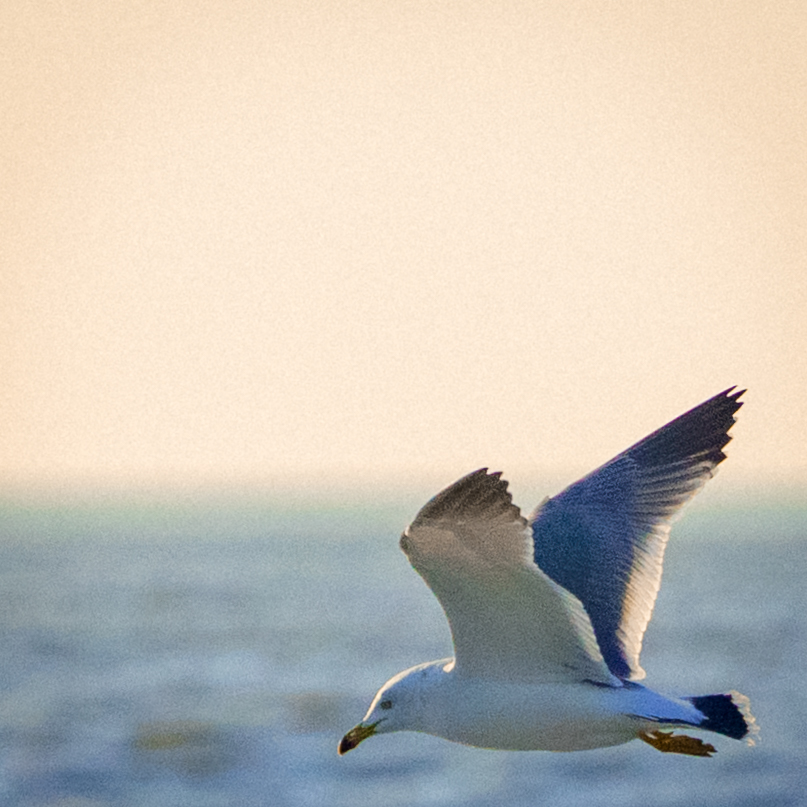
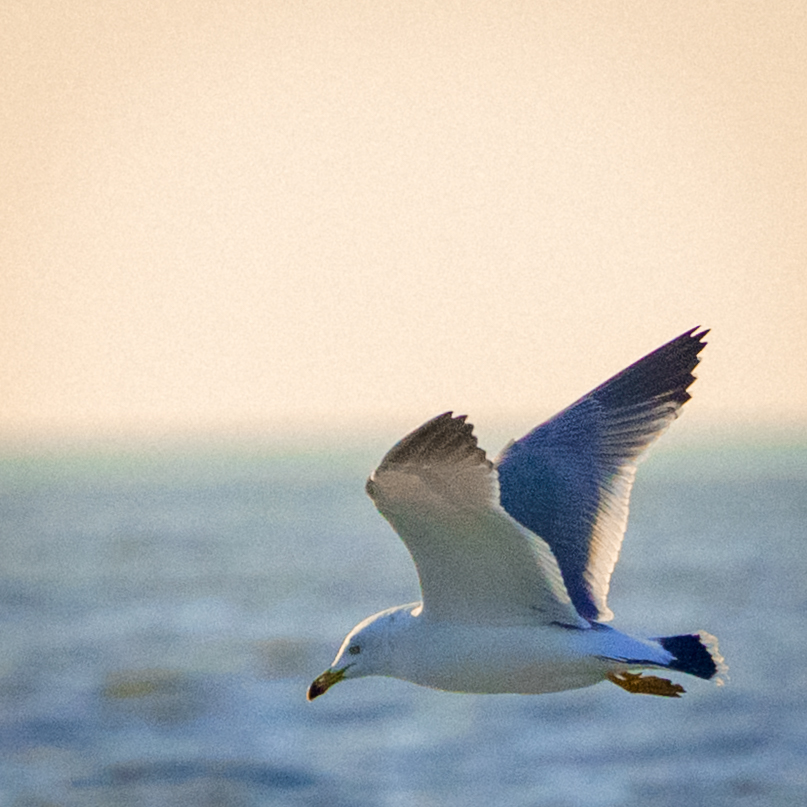
s

diff --git a/js/wildlife-data.js b/js/wildlife-data.js
@@ -61,6 +61,7 @@ const wildlifeStories = [
   {
     images: [
       "images/wildlife/17 Dog.jpg",
+      "images/wildlife/17.5.jpg",
     ],
     alt: "Replace with a description of this photograph for screen readers",
     meta: "Yubudo Island",
@@ -70,6 +71,7 @@ const wildlifeStories = [
   {
     images: [
       "images/wildlife/16 Gull.jpg",
+      "images/wildlife/16.1.jpg",
       "images/wildlife/16.5.jpg",
     ],
     alt: "Replace with a description of this photograph for screen readers",
